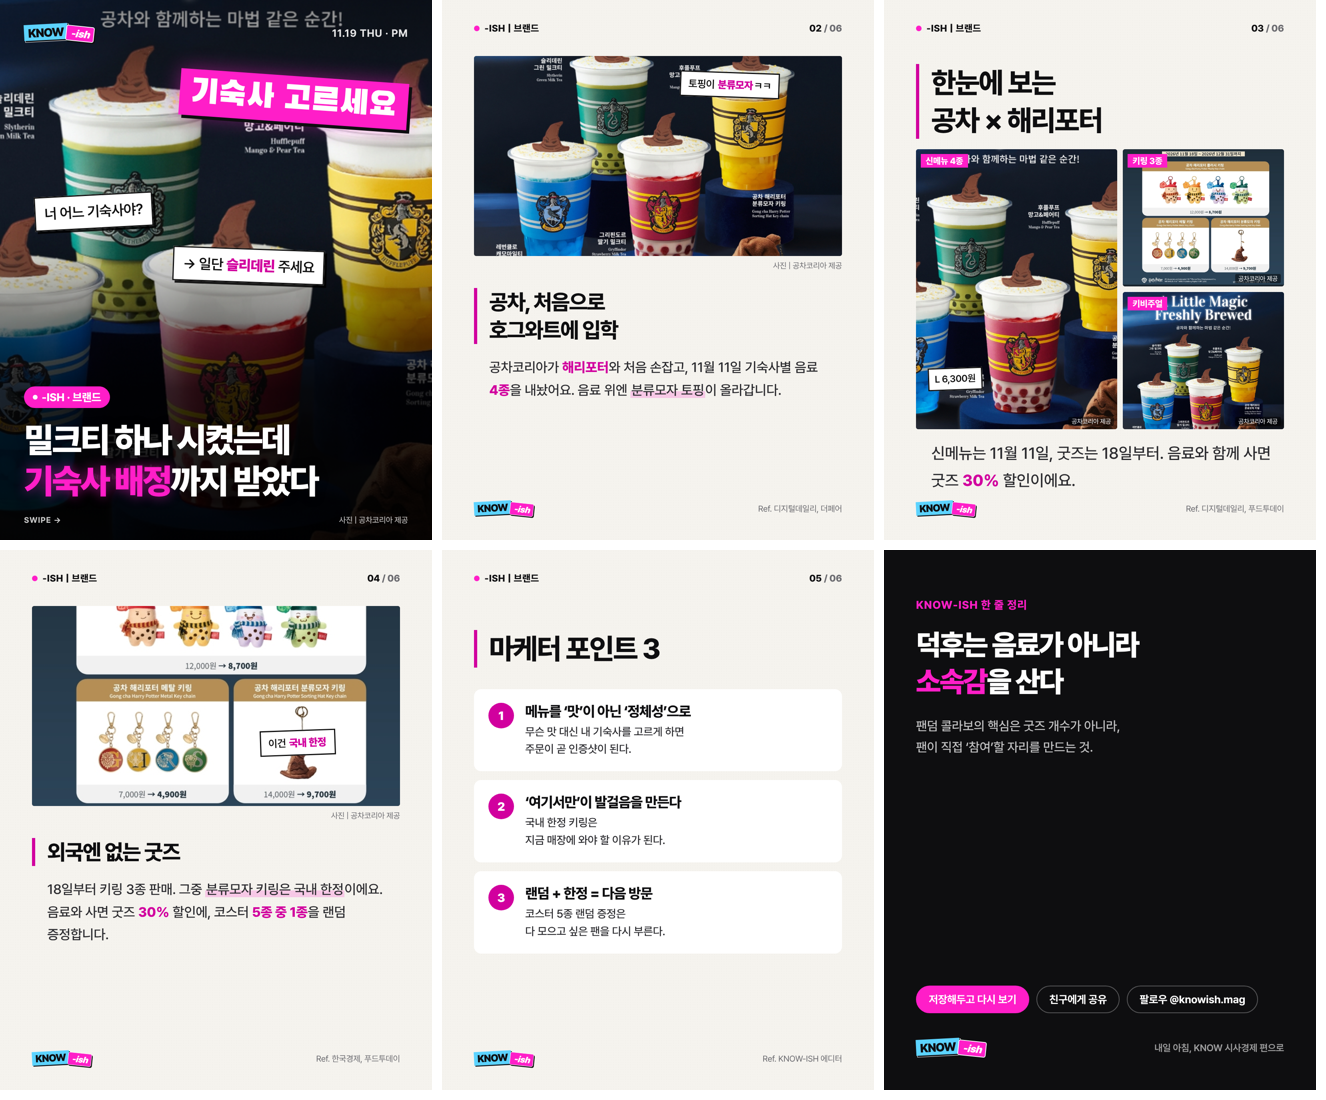
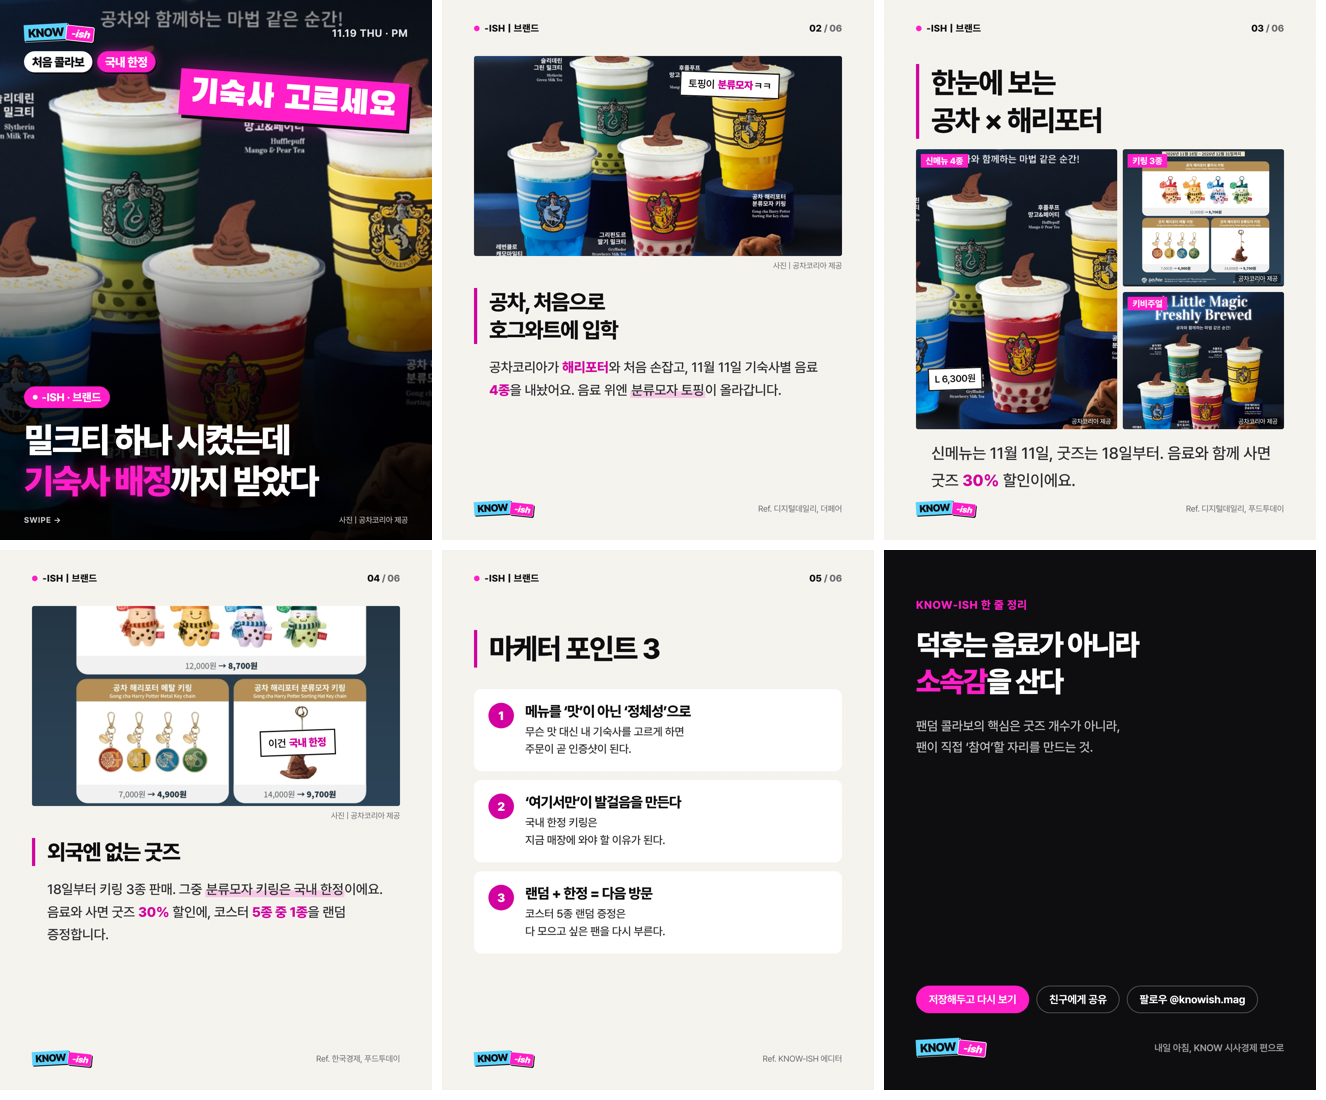
썸네일 고정: 표지는 항상 classic, 변형은 어그로 칩(chips)만
Claude-Session: https://claude.ai/code/session_019qCDgtKUUxWTJuWU3cPXKC

Changed region(s): [[0.1237, 0.2164, 0.2474, 0.2782], [0.0, 0.1545, 0.1237, 0.2164], [0.0, 0.0309, 0.1237, 0.0927]]

diff --git a/onoff/AUTOMATION.md b/onoff/AUTOMATION.md
@@ -4,7 +4,7 @@
 사람이 할 일은 **승인 한 번**뿐이다.
 
 | 회차 | 실행 (KST) | 시리즈 | 게시 목표 |
-|---|---|---|---|
+|---|---|---|
 | 오전 | 06:37 | `on` · **KNOW** 시사·경제·정치 (깊게) | 08:00 |
 | 오후 | 16:37 | `off` · **-ISH** 마케팅·브랜드·트렌드 (가볍게) | 18:00 |
 
@@ -36,6 +36,16 @@
 - 구조: `cover` → 본문(`body` / `compare` / `points`) → `outro`
 - 분량: KNOW **6~9장**, -ISH **5~7장** (인스타 API 최대 10장)
 - 표지(`cover`): 스티커 8자 이내, 제목 2줄(최대 3줄), 핵심 단어 1개만 `==강조==`. 2EZ식 후킹.
+
+### 썸네일 고정 (모든 게시물 공통)
+표지는 **항상 같은 틀**이다: 꽉 찬 실사 사진 + 왼쪽 위 로고 + 오른쪽 위 날짜 + 기울어진 스티커 + 시리즈 배지 + 굵은 2줄 제목(핵심 단어 시리즈색). 스타일(classic/mag)과 무관하게 바꾸지 않는다.
+허용되는 변형은 **어그로 칩(`chips`)** 하나뿐이다.
+- `"chips": ["처음 콜라보", {"text": "국내 한정", "kind": "hot"}]` — 최대 3개, 각 8자 이내. 로고 아래 한 줄에 놓인다(스티커가 왼쪽이면 오른쪽 정렬).
+- `kind`: 기본(흰색) / `hot`(시리즈색, 가장 센 한 개에만) / `dark`(검정 테두리, 날짜·기간) / `dot`(빨간 점, 속보·D-day·마감)
+- 예: `D-26`, `오늘 마감`, `속보`, `단독 공개`, `17분 컷`, `국내 한정`, `반전`, `품절 주의`, `12/15~31`
+- **사실인 것만.** 마감·한정·속보·숫자는 근거가 있을 때만 쓰고, D-day 는 KST 기준으로 계산한다. 가짜 긴급함 금지.
+- 칩은 매번 넣을 필요 없다. 숫자·기한·희소성이 핵심인 게시물에만.
+- 표지에는 말풍선(`says`)을 쓰지 않는다.
 - 본문: MOT·LUX식. 한 장에 한 메시지. 사진 있는 장 140자, 없는 장 260자 이내. 숫자·고유명사는 `**굵게**`, 핵심 문장은 `==형광펜==`.
 - 마지막 `outro`: "한 줄 정리" — 아는 척할 때 쓸 문장.
 - `caption`: 첫 줄 `[제목]`, 3~5줄 요약, 이미지·자료 출처, **해시태그는 정확히 5개**(브랜드/주제 핵심 3~4개 + 마지막 `#knowish`).
@@ -49,12 +59,12 @@
 ### 디자인 스타일 — 번갈아 쓰기
 `content.json` 의 `"style"` 로 고른다. **같은 시리즈의 직전 게시물과 다른 스타일**을 쓴다(오전 KNOW끼리, 오후 -ISH끼리 번갈아). 직전 게시물에 style 이 없으면 classic 으로 본다. 사용자가 지정하면 그걸 따른다.
 
-| style | 느낌 | 표지 | 본문에 쓰는 타입 |
-|---|---|---|---|
-| `classic` (기본) | 2EZ 썸네일 + MOT·LUX 본문. 정보형 | 사진 + 스티커 + 굵은 2줄 제목 (+ 가끔 말풍선) | body, gallery, compare, points (+ meme) |
-| `mag` | 에디터 매거진 톤. 말 걸듯 가볍게, 밈 감성 | `vol. NNN` · `editor_ 노이쉬` 라벨, ■ 태그, 얇은 큰 제목, 스티커 없음 | **letter**(파스텔 바탕 에디터 노트), **meme**(사진 2~3칸 + 말풍선), gallery, body, points |
+| style | 느낌 | 본문에 쓰는 타입 |
+|---|---|---|
+| `classic` (기본) | MOT·LUX 정보형 본문 | body, gallery, compare, points (+ meme) |
+| `mag` | 에디터 매거진 톤. 말 걸듯 가볍게, 밈 감성 | **letter**(파스텔 바탕 에디터 노트), **meme**(사진 2~3칸 + 말풍선), gallery, body, points |
 
-- mag 표지: `tag`(태그 한 단어), 제목 30자 이내. vol 번호는 posts 순서로 자동.
+- 스타일은 **본문(2장~)에만** 적용된다. 표지는 아래 "썸네일 고정" 규칙을 따른다. mag 본문 상단의 vol 번호는 posts 순서로 자동.
 - `letter`: `label`(예: "에디터의 팝업 노트"), `title`, `text`(사진 있으면 200자, 없으면 330자), 선택 `image` + `say`(사진 옆 말풍선 한 줄).
 - `meme`: `title`(검은 띠 제목), `panels` 2~3칸 — 각 칸 `image`, `say`(상황), `react`(→ 반응, `==강조==`는 시리즈 진한색), `side`(l/r).
 - meme 사진도 라이선스 규칙 그대로. 출처 불명 밈 짤(핀터레스트 등)은 쓰지 않는다 — 보도자료·공식 이미지·라이선스 스톡·AI 생성 이미지만.
@@ -62,7 +72,7 @@
 
 ### 말풍선 · 사진 많이 쓰기 (두 스타일 공통)
 - **말풍선(`says`)** — 게시물 성격에 맞을 때 **가끔** 쓴다(가벼운 -ISH, 반응이 재밌는 이슈 위주. 심각한 시사·사건 이슈엔 쓰지 않는다).
-  - 표지(`cover`)나 사진 있는 `body` 에 `"says": [{"text": "너 어느 기숙사야?", "x": 8, "y": 36, "rot": -3}]` — x·y 는 % 위치, 최대 2개, 한 줄 24자 이내.
+  - 사진 있는 `body`·`gallery` 사진에 `"says": [{"text": "너 어느 기숙사야?", "x": 8, "y": 36, "rot": -3}]` — x·y 는 % 위치, 최대 2개, 한 줄 24자 이내.
   - 패턴: 상황 한 마디 → `→ 반응` 한 마디. `==강조==` 는 시리즈 진한색.
   - 사진 속 중요한 부분(얼굴·제품·글자)을 가리지 않게 위치를 잡고 review.png 로 확인.
 - **사진 많이**: 실사 자료가 있는 장을 **전체의 절반 이상**으로. 한 이슈에 보도자료·공식 이미지를 여러 장 모은다.

diff --git a/.claude/skills/knowish/SKILL.md b/.claude/skills/knowish/SKILL.md
@@ -22,7 +22,7 @@ argument-hint: <주제나 링크> [KNOW|-ISH] [장수] [톤·요청사항]
 | 시리즈 | 시사·경제·정치·정책·사회 → `on`(KNOW, 하늘). 마케팅·브랜드·캠페인·트렌드·밈·팝업 → `off`(-ISH, 마젠타). 애매하면 깊이로 판단: "왜/영향" 설명이 핵심이면 KNOW |
 | 장수 | KNOW 7장, -ISH 6장 (요청 시 KNOW 6~9, -ISH 5~7 안에서) |
 | 톤 | 시리즈 기본 톤. 사용자가 원하는 톤("더 가볍게", "숫자 위주", "비교 위주")이 있으면 반영 |
-| 스타일 | 같은 시리즈 직전 게시물과 다른 것(`classic` ↔ `mag`). 사용자가 "매거진 톤", "밈 스타일", "정보형" 등으로 말하면 그대로. 자세한 건 런북 '디자인 스타일' |
+| 스타일 | 본문(2장~)만 해당. 같은 시리즈 직전 게시물과 다른 것(`classic` ↔ `mag`). 사용자가 "매거진 톤", "밈 스타일", "정보형" 등으로 말하면 그대로. 자세한 건 런북 '디자인 스타일' |
 | 게시물 ID | `YYYY-MM-DD-req-<영문슬러그>` (KST 날짜, 예: `2026-11-20-req-gongcha-hp`) |
 
 ## 2. 리서치 (정기 회차보다 깊게)
@@ -33,7 +33,7 @@ argument-hint: <주제나 링크> [KNOW|-ISH] [장수] [톤·요청사항]
 
 ## 3. 만들기
 1. `onoff/posts/<id>/content.json` 작성 — 형식은 `onoff/content/2026-11-19-am.json`(KNOW), `onoff/posts/2026-11-19-pm/content.json`(-ISH) 참고. `caption`(해시태그 정확히 5개, 마지막 `#knowish`), `commentTags`(유입용 15~20개), `sources` 필수.
-2. 사진: 런북의 이미지 규칙대로. **사진 있는 장이 절반 이상**이 되게 여러 장 모으고(`gallery` 활용), 가벼운 주제면 표지·사진에 말풍선(`says`)을 가끔 얹는다. 기사에 "<기업명> 제공"으로 실린 보도자료 사진은 `node src/fetch-image.mjs <기사 URL> posts/<id>/images/01` 로 받는다. 받은 사진은 직접 열어 보고 고른다(사진 속 글자가 스티커·제목과 겹치면 다른 사진 또는 `image.pos`).
+2. 사진: 런북의 이미지 규칙대로. **사진 있는 장이 절반 이상**이 되게 여러 장 모으고(`gallery` 활용), 가벼운 주제면 본문 사진에 말풍선(`says`)을 가끔 얹는다. **표지(썸네일)는 항상 고정 틀**이고, 변형은 사실 기반 어그로 칩(`chips`)만 쓴다(런북 '썸네일 고정'). 기사에 "<기업명> 제공"으로 실린 보도자료 사진은 `node src/fetch-image.mjs <기사 URL> posts/<id>/images/01` 로 받는다. 받은 사진은 직접 열어 보고 고른다(사진 속 글자가 스티커·제목과 겹치면 다른 사진 또는 `image.pos`).
 3. `node src/build.mjs posts/<id>` → `problems` 0개가 될 때까지 고친다.
 4. `review.png` 와 슬라이드를 직접 보고 글자 넘침·겹침·오타를 고친다.
 
